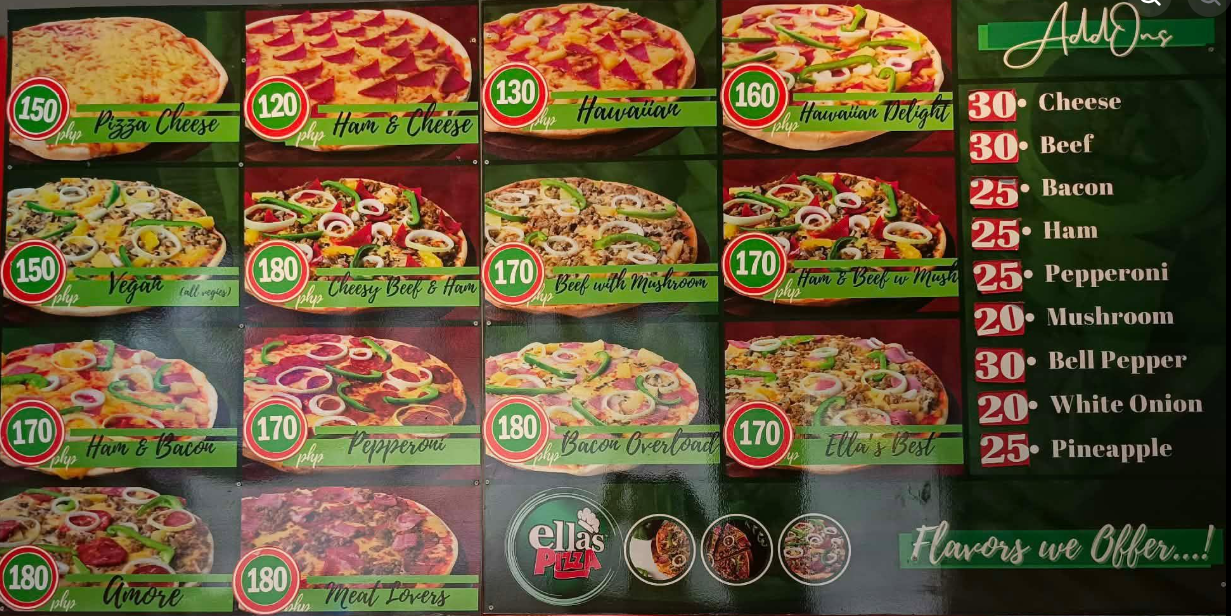
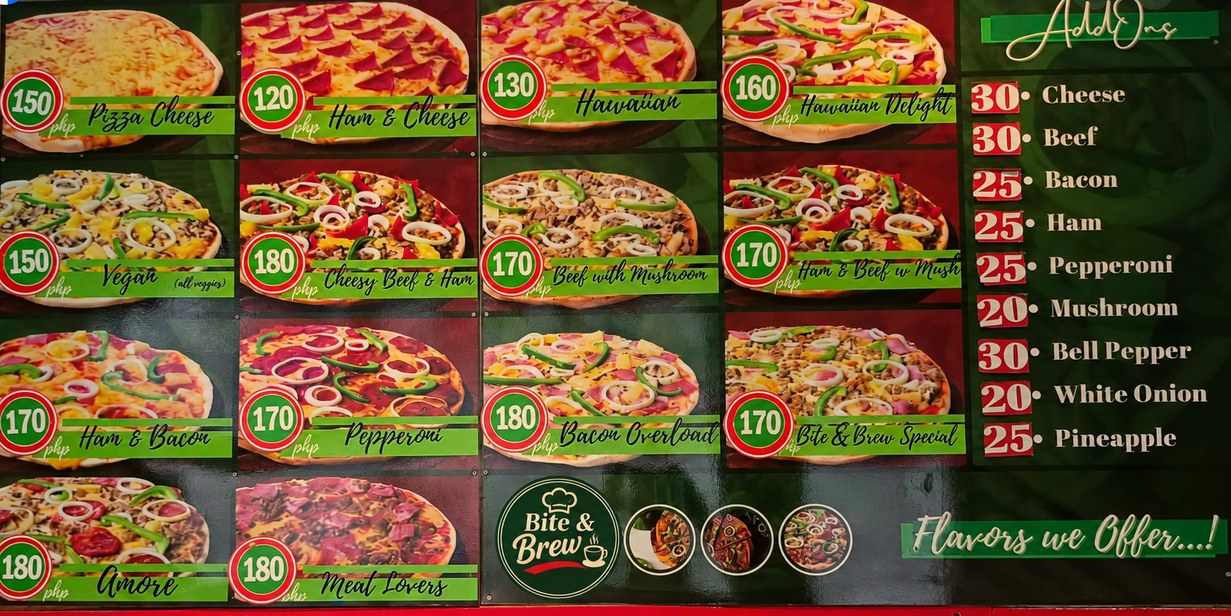
Replace former branding with Bite and Brew throughout the system

diff --git a/node-app/public/sw.js b/node-app/public/sw.js
@@ -1,9 +1,9 @@
-import { BRAND } from './shared/brand.js';
+import { BRAND, brandText } from './shared/brand.js';
 import { activeUser, syncDrafts } from './js/offline-store.js';
-const VERSION = 'ellas-shell-74fd7b43eb45b10f';
+const VERSION = 'bite-brew-shell-86f66da6c3e6fe45';
 const ASSETS = ['/shared/fontawesome-icons.js', '/shared/fontawesome.LICENSE.txt', '/assets/react-runtime.js', '/customer.html', '/js/customer.js', '/js/support-chat.js', '/images/hero-pizza-burger.png', '/images/hero-food.png', '/js/storefront.js', '/staff.html', '/css/landing.css', '/js/landing.js', '/images/burger.webp', '/images/milk-tea.webp', '/images/fries.webp', '/', '/index.html', '/offline.html', '/manifest.webmanifest', '/css/app.css', '/css/print.css', '/js/app.js', '/js/api.js', '/js/ui.js', '/js/offline-store.js', '/js/pwa.js', '/js/realtime.js', '/js/pages/dashboard.js', '/js/pages/pos.js', '/js/pages/orders.js', '/js/pages/management.js', '/js/pages/payments.js', '/js/pages/reports.js', '/js/pages/chat.js', '/js/pages/settings.js', '/js/pages/notifications.js', '/js/document.js', '/shared/calculation.js', '/shared/brand.js', '/icons/brand-logo.png', '/icons/icon-192.png', '/icons/icon-512.png'];
 self.addEventListener('install', event => event.waitUntil(caches.open(VERSION).then(cache => cache.addAll(ASSETS.map(url => new Request(url, { cache: 'reload' }))))));
-self.addEventListener('activate', event => event.waitUntil((async () => { for (const name of await caches.keys()) if (name.startsWith('ellas-shell-') && name !== VERSION) await caches.delete(name); await self.clients.claim(); })()));
+self.addEventListener('activate', event => event.waitUntil((async () => { for (const name of await caches.keys()) if ((name.startsWith('bite-brew-shell-') || name.startsWith('ellas-shell-')) && name !== VERSION) await caches.delete(name); await self.clients.claim(); })()));
 self.addEventListener('message', event => { if (event.data?.type === 'APPLY_UPDATE') self.skipWaiting(); if (event.data?.type === 'SYNC_NOW') event.waitUntil(syncDrafts({ manual: true })); });
 self.addEventListener('sync', event => { if (event.tag === 'ellas-order-drafts') event.waitUntil(syncDrafts()); });
 self.addEventListener('fetch', event => {
@@ -26,7 +26,7 @@ self.addEventListener('fetch', event => {
 self.addEventListener('push', event => event.waitUntil((async () => {
   let value; try { value = event.data?.json(); } catch { value = {}; }
   const url = typeof value?.url === 'string' && value.url.startsWith('/?page=') ? value.url : '/?page=notifications';
-  await self.registration.showNotification(typeof value?.title === 'string' ? value.title.slice(0, 120) : BRAND.name, { body: 'There is a new update in your workspace.', icon: '/icons/icon-192.png', badge: '/icons/icon-192.png', tag: value?.tag || 'ellas-update', data: { url } });
+  await self.registration.showNotification(typeof value?.title === 'string' ? brandText(value.title).slice(0, 120) : BRAND.name, { body: 'There is a new update in your workspace.', icon: '/icons/icon-192.png', badge: '/icons/icon-192.png', tag: value?.tag || 'bite-brew-update', data: { url } });
 })()));
 self.addEventListener('notificationclick', event => {
   event.notification.close();

diff --git a/node-app/server/services/orders.js b/node-app/server/services/orders.js
@@ -6,6 +6,7 @@ import { fail } from '../lib/errors.js';
 import { authorize, authorizeOrderStatus } from '../lib/permissions.js';
 import { localDate, pagination, pageResult } from '../lib/time.js';
 import { settings } from './settings.js';
+import { brandText, brandBusiness } from '../../public/shared/brand.js';
 import { changed, notify } from './notifications.js';
 import { calculate, quoteMaterial, cents } from '../../public/shared/calculation.js';
 
@@ -35,7 +36,7 @@ export async function priceOrder(tx, actor, data) {
     if (new Set(line.addons).size !== line.addons.length) fail(422, 'ADDONS', 'Each add-on may be selected only once per item.');
     const addons = line.addons.map(id => variant.addons.find(link => link.addonId === id)?.addon);
     if (addons.some(addon => !addon?.active)) { conflicts.push({ variantId: line.variantId, reason: 'An add-on is unavailable or no longer applies to this variant' }); continue; }
-    items.push({ variantId: variant.id, name: variant.product.name, variantName: variant.name, basePrice: String(variant.price), quantity: line.quantity, addons: addons.map(a => ({ id: a.id, name: a.name, price: String(a.price) })), instructions: line.instructions });
+    items.push({ variantId: variant.id, name: brandText(variant.product.name), variantName: variant.name, basePrice: String(variant.price), quantity: line.quantity, addons: addons.map(a => ({ id: a.id, name: a.name, price: String(a.price) })), instructions: line.instructions });
   }
   if (conflicts.length) fail(409, 'MENU_CONFLICT', 'Some selections are no longer available. Review the draft before submitting.', { conflicts });
   let quote;
@@ -48,6 +49,8 @@ const orderIncludes = { items: { where: { removedAt: null } }, history: { includ
 export async function orderView(tx, id, actor) {
   const order = await tx.order.findUnique({ where: { id }, include: orderIncludes });
   if (!order) fail(404, 'NOT_FOUND', 'Order not found.');
+  order.businessSnapshot = brandBusiness(order.businessSnapshot);
+  order.items = order.items.map(item => ({ ...item, name: brandText(item.name) }));
   if (actor.role === 'KITCHEN') {
     if (!order.confirmedAt) fail(403, 'FORBIDDEN', 'This order is not in the kitchen workflow.');
     return { id: order.id, number: order.number, businessName: order.businessSnapshot.name, type: order.type, status: order.status, version: order.version, tableNumber: order.tableNumber, pickupAt: order.pickupAt, instructions: order.instructions, confirmedAt: order.confirmedAt, preparingAt: order.preparingAt, createdAt: order.createdAt, items: order.items.map(item => ({ id: item.id, name: item.name, variantName: item.variantName, quantity: item.quantity, addons: item.addons.map(a => ({ name: a.name })), instructions: item.instructions })), history: order.history.map(history => ({ from: history.from, to: history.to, reason: history.reason, createdAt: history.createdAt, actor: history.actor })) };

diff --git a/node-app/tests/branding.test.js b/node-app/tests/branding.test.js
@@ -1,0 +1,47 @@
+import test from 'node:test';
+import assert from 'node:assert/strict';
+import { BRAND, brandText, brandBusiness } from '../public/shared/brand.js';
+import { settings } from '../server/services/settings.js';
+import { orderView } from '../server/services/orders.js';
+
+const formerName = 'Ella\u2019s Pizza';
+const formerProduct = 'Ella\u2019s Best';
+
+test('saved business branding is updated without changing contact or financial settings', async () => {
+  const original = { name: formerName, footer: `Thank you for choosing ${formerName}!`, logo: '/uploads/old-logo.png', orderPrefix: 'EP', contact: 'fixture contact', taxBps: 1200 };
+  const business = await settings({ setting: { findUnique: async () => ({ data: original }) } });
+  assert.equal(business.name, BRAND.name);
+  assert.equal(business.footer, 'Thank you for choosing Bite & Brew!');
+  assert.equal(business.orderPrefix, 'BB');
+  assert.equal(business.logo, null);
+  assert.equal(business.contact, original.contact);
+  assert.equal(business.taxBps, original.taxBps);
+  assert.equal(original.name, formerName);
+  assert.deepEqual(brandBusiness(business), business);
+});
+
+test('historical receipts use current branding without rewriting stored snapshots or totals', async () => {
+  const stored = { id: 'order', number: 'EP-HISTORICAL', businessSnapshot: { name: formerName, footer: formerName }, items: [{ name: formerProduct, quantity: 1, addons: [] }], total: '170.00', paid: '100.00', history: [], confirmedAt: new Date() };
+  const tx = { order: { findUnique: async () => structuredClone(stored) } };
+  const owner = await orderView(tx, 'order', { role: 'OWNER' });
+  assert.equal(owner.businessSnapshot.name, BRAND.name);
+  assert.equal(owner.items[0].name, 'Bite & Brew Special');
+  assert.equal(owner.number, stored.number);
+  assert.equal(owner.total, '170.00');
+  assert.equal(owner.balance, '70.00');
+  const kitchen = await orderView(tx, 'order', { role: 'KITCHEN' });
+  assert.equal(kitchen.businessName, BRAND.name);
+  assert.equal(kitchen.items[0].name, 'Bite & Brew Special');
+  assert.equal(kitchen.total, undefined);
+  assert.equal(kitchen.businessSnapshot, undefined);
+  assert.equal(stored.businessSnapshot.name, formerName);
+  assert.equal(stored.items[0].name, formerProduct);
+});
+
+test('branding handles apostrophe variants while preserving unrelated content', () => {
+  for (const name of [formerName, "Ella's Pizza", 'ELLAS PIZZA']) assert.equal(brandText(name), BRAND.name);
+  assert.equal(brandText(formerProduct), 'Bite & Brew Special');
+  assert.equal(brandText('Mozzarella Pizza'), 'Mozzarella Pizza');
+  assert.equal(brandText(null), null);
+  assert.equal(brandBusiness({ name: BRAND.name, logo: '/uploads/new-logo.png' }).logo, '/uploads/new-logo.png');
+});

diff --git a/node-app/server/controllers/documents.js b/node-app/server/controllers/documents.js
@@ -4,7 +4,7 @@ import { audit } from '../lib/atomic.js';
 import { fail } from '../lib/errors.js';
 import { orderView } from '../services/orders.js';
 import { report } from '../services/reports.js';
-import { BRAND } from '../../public/shared/brand.js';
+import { BRAND, brandText } from '../../public/shared/brand.js';
 
 const escape = value => String(value ?? '').replace(/[&<>"']/g, char => ({ '&': '&amp;', '<': '&lt;', '>': '&gt;', '"': '&quot;', "'": '&#39;' })[char]);
 const money = value => 'PHP ' + Number(value || 0).toLocaleString('en-PH', { minimumFractionDigits: 2, maximumFractionDigits: 2 });
@@ -39,7 +39,7 @@ export async function receiptPdf(actor, id, res) {
 }
 const financial = new Set(['amount', 'subtotal', 'discount', 'charges', 'total', 'paid', 'balance', 'grossSales', 'discounts', 'recognizedSales', 'salesRefunds', 'netSales', 'collections', 'sales', 'otherRefunds', 'refunds', 'netCollections', 'outstanding', 'refundObligations']);
 function csvCell(value, key) {
-  let text = value instanceof Date ? date(value) : String(value ?? '');
+  let text = value instanceof Date ? date(value) : String(brandText(value) ?? '');
   if (!(financial.has(key) && /^-?\d+(\.\d+)?$/.test(text)) && /^[=+@\-]/.test(text.trimStart())) text = "'" + text;
   return '"' + text.replaceAll('"', '""') + '"';
 }
@@ -61,7 +61,7 @@ export async function exportReport(actor, type, format, query, res) {
   document.fontSize(20).text(result.business.name).fontSize(13).text(type.toUpperCase() + ' REPORT').fontSize(10).text(`${result.period.from} — ${result.period.to} · Asia/Manila`).text('Generated ' + date(result.generatedAt)).moveDown();
   for (const [key, value] of Object.entries(result.summary)) document.text(key + ': ' + (key === 'completedOrders' ? value : money(value)));
   document.moveDown();
-  for (const row of result.data) { for (const [key, value] of Object.entries(row)) document.fontSize(9).text(key + ': ' + (value instanceof Date ? date(value) : String(value ?? '—'))); document.moveDown(); }
+  for (const row of result.data) { for (const [key, value] of Object.entries(row)) document.fontSize(9).text(key + ': ' + (value instanceof Date ? date(value) : String(brandText(value) ?? '—'))); document.moveDown(); }
   document.addPage().fontSize(13).text('Definitions').fontSize(10); for (const [key, value] of Object.entries(result.definitions)) document.moveDown(.5).text(key + ': ' + value);
   document.end();
 }

diff --git a/node-app/server/services/branding.js b/node-app/server/services/branding.js
@@ -1,0 +1,44 @@
+import fs from 'node:fs/promises';
+import path from 'node:path';
+import { createHash } from 'node:crypto';
+import { db } from '../db.js';
+import { config, root } from '../config.js';
+import { brandBusiness, brandText } from '../../public/shared/brand.js';
+
+// Idempotent data migration for installations created before the rebrand.
+// Historical order snapshots are normalized for display in orderView instead.
+export async function applyBranding() {
+  const bytes = await fs.readFile(path.join(root, 'data/product-photos.png'));
+  const filename = 'supplied-products-' + createHash('sha256').update(bytes).digest('hex').slice(0, 16) + '.png';
+  await fs.mkdir(config.uploads, { recursive: true });
+  try { await fs.writeFile(path.join(config.uploads, filename), bytes, { flag: 'wx' }); }
+  catch (error) { if (error.code !== 'EEXIST') throw error; }
+  return db.$transaction(async tx => {
+    const stored = await tx.setting.findUnique({ where: { id: 1 } });
+    if (stored) {
+      const normalized = JSON.parse(JSON.stringify(brandBusiness(stored.data)));
+      if (JSON.stringify(normalized) !== JSON.stringify(stored.data)) {
+        await tx.setting.update({ where: { id: 1 }, data: { data: normalized } });
+      }
+    }
+    const products = await tx.menuItem.findMany({ where: { OR: [
+      { name: { contains: 'Ella' } }, { code: 'EP-ELLAS-BEST' },
+      { image: { startsWith: '/uploads/supplied-products-' } },
+    ] } });
+    let updated = 0;
+    for (const product of products) {
+      const data = {};
+      const name = brandText(product.name);
+      if (name !== product.name) data.name = name;
+      if (product.code === 'EP-ELLAS-BEST') data.code = 'BB-SPECIAL';
+      if (product.imageFrame && product.image?.startsWith('/uploads/supplied-products-') && product.image !== '/uploads/' + filename) {
+        data.image = '/uploads/' + filename;
+      }
+      if (Object.keys(data).length) {
+        await tx.menuItem.update({ where: { id: product.id }, data });
+        updated++;
+      }
+    }
+    return { productsUpdated: updated };
+  });
+}

diff --git a/node-app/scripts/browser-check.js b/node-app/scripts/browser-check.js
@@ -10,7 +10,7 @@ import { BRAND } from '../public/shared/brand.js';
 
 const root = path.resolve('.'), artifacts = path.join(root, 'docs/verification-artifacts'); fs.mkdirSync(artifacts, { recursive: true });
 const user = { id: randomUUID(), name: 'DEMONSTRATION UI fixture', email: 'fixture@example.test', role: 'OWNER', permissions: ['dashboard', 'pos', 'orders', 'kitchen', 'menu', 'customers', 'payments', 'reports', 'chat', 'notifications', 'archives', 'staff', 'audit', 'settings'] };
-const business = { name: 'Ella’s Pizza · UI TEST FIXTURE', address: 'Poblacion 1, Victoria, Oriental Mindoro', contact: '0985 986 4399', hours: '7:00 AM–8:00 PM', facebook: 'https://www.facebook.com/share/1F1nJVSJQG/', logo: null, preparationMinutes: 20, currency: 'PHP', timezone: 'Asia/Manila', taxBps: 0, serviceBps: 0, allowCashierDiscounts: false, paymentMethods: ['CASH', 'GCASH'], footer: 'UI fixture only', orderPrefix: 'DEMO' };
+const business = { name: 'Bite & Brew · UI TEST FIXTURE', address: 'Poblacion 1, Victoria, Oriental Mindoro', contact: '0985 986 4399', hours: '7:00 AM–8:00 PM', facebook: 'https://www.facebook.com/share/1F1nJVSJQG/', logo: null, preparationMinutes: 20, currency: 'PHP', timezone: 'Asia/Manila', taxBps: 0, serviceBps: 0, allowCashierDiscounts: false, paymentMethods: ['CASH', 'GCASH'], footer: 'UI fixture only', orderPrefix: 'DEMO' };
 const menu = JSON.parse(fs.readFileSync('data/menu.json')), photos = JSON.parse(fs.readFileSync('data/product-photos.json')), category = { id: randomUUID(), name: 'Pizzas', active: true };
 const addons = menu.addons.map(item => ({ ...item, id: randomUUID(), active: true }));
 const products = menu.products.map((item, index) => ({ ...item, id: randomUUID(), categoryId: category.id, category, active: true, demo: true, description: 'DEMONSTRATION UI fixture', image: '/uploads/fixture-products.png', imageFrame: { ...photos.frames[item.code], source_width: photos.source_width, source_height: photos.source_height }, variants: [{ id: randomUUID(), name: 'Pizza', price: item.price, active: true, addons }] }));

diff --git a/node-app/server/services/menu.js b/node-app/server/services/menu.js
@@ -9,6 +9,7 @@ import { fail } from '../lib/errors.js';
 import { authorize } from '../lib/permissions.js';
 import { pagination, pageResult } from '../lib/time.js';
 import { cents } from '../../public/shared/calculation.js';
+import { brandText } from '../../public/shared/brand.js';
 
 export const uuid = z.uuid();
 export const amount = z.string().regex(/^\d{1,8}(?:\.\d{1,2})?$/, 'Enter a non-negative amount with at most two decimal places.');
@@ -23,7 +24,7 @@ export async function catalog(actor, query = {}, management = false) {
   if (query.archived === '1' && !owner) fail(403, 'FORBIDDEN', 'Only the owner can view archived records.');
   const where = { archivedAt: owner && query.archived === '1' ? { not: null } : null, ...(!management ? { active: true, category: { archivedAt: null, active: true } } : {}), ...(query.categoryId ? { categoryId: uuid.parse(query.categoryId) } : {}), ...(query.q ? { OR: [{ name: { contains: String(query.q).slice(0, 120) } }, { code: { contains: String(query.q).slice(0, 120) } }] } : {}) };
   const [rows, total] = await db.$transaction([db.menuItem.findMany({ where, include: { category: true, variants: { include: { addons: { include: { addon: true } } }, orderBy: { createdAt: 'asc' } } }, orderBy: [{ sortOrder: 'asc' }, { name: 'asc' }], skip: p.skip, take: p.take }), db.menuItem.count({ where })]);
-  return pageResult(rows.map(row => ({ ...row, variants: row.variants.map(variant => ({ ...variant, addons: variant.addons.map(link => link.addon) })) })), total, p);
+  return pageResult(rows.map(row => ({ ...row, name: brandText(row.name), description: brandText(row.description), variants: row.variants.map(variant => ({ ...variant, addons: variant.addons.map(link => link.addon) })) })), total, p);
 }
 export async function saveProduct(actor, key, id, input) {
   authorize(actor, 'menu');

diff --git a/node-app/server/routes/public.js b/node-app/server/routes/public.js
@@ -2,6 +2,7 @@ import { Router } from 'express';
 import path from 'node:path';
 import { z } from 'zod';
 import { db } from '../db.js';
+import { brandText } from '../../public/shared/brand.js';
 import { config } from '../config.js';
 import { pagination, pageResult } from '../lib/time.js';
 import { fail } from '../lib/errors.js';
@@ -18,7 +19,7 @@ export function publicRoutes() {
         db.menuItem.count({ where }),
         db.category.findMany({ where: { active: true, archivedAt: null, products: { some: { active: true, archivedAt: null } } }, select: { id: true, name: true }, orderBy: { name: 'asc' } }),
       ]);
-      res.json({ ...pageResult(products.map(product => ({ ...product, variants: product.variants.map(variant => ({ ...variant, addons: variant.addons.map(link => link.addon) })), image: product.image ? `/api/public/products/${product.id}/image` : null })), total, p), categories });
+      res.json({ ...pageResult(products.map(product => ({ ...product, name: brandText(product.name), description: brandText(product.description), variants: product.variants.map(variant => ({ ...variant, addons: variant.addons.map(link => link.addon) })), image: product.image ? `/api/public/products/${product.id}/image` : null })), total, p), categories });
     } catch (error) { next(error); }
   });
   // Only expose the image of a currently public product, never the upload directory.

diff --git a/node-app/scripts/backup.js b/node-app/scripts/backup.js
@@ -25,7 +25,7 @@ try {
     for (const item of await fs.readdir(config.uploads, { withFileTypes: true })) { if (!item.isFile() || !/^[a-zA-Z0-9._-]+$/.test(item.name)) continue; const bytes = await fs.readFile(path.join(config.uploads, item.name)); files.push({ name: item.name, data: bytes.toString('base64'), hash: hash(bytes) }); }
     const value = { version: 2, schemaHash: hash(schema), createdAt: new Date().toISOString(), timezone: 'UTC', tables, files };
     if (Buffer.byteLength(JSON.stringify(value)) > 200 * 1024 * 1024) throw new Error('Use mysqldump and a filesystem snapshot for backups above 200 MB.');
-    const destination = path.resolve(root, argument || 'var/backups/ellas-' + new Date().toISOString().replaceAll(':', '-') + '.epbackup');
+    const destination = path.resolve(root, argument || 'var/backups/bite-brew-' + new Date().toISOString().replaceAll(':', '-') + '.epbackup');
     await fs.mkdir(path.dirname(destination), { recursive: true }); await fs.writeFile(destination, encodeBackup(value, passphrase), { mode: 0o600, flag: 'wx' });
     console.log('Encrypted backup saved:', destination); console.log('Includes business tables and uploaded media; active sessions and environment secrets are excluded.');
   } else {

diff --git a/node-app/server/services/settings.js b/node-app/server/services/settings.js
@@ -2,7 +2,7 @@ import { z } from 'zod';
 import { db } from '../db.js';
 import { atomic, audit } from '../lib/atomic.js';
 import { authorize } from '../lib/permissions.js';
-import { BRAND } from '../../public/shared/brand.js';
+import { BRAND, brandBusiness } from '../../public/shared/brand.js';
 export const defaults = {
   name: BRAND.name, systemName: BRAND.systemName,
   address: 'Poblacion 1, Victoria, Oriental Mindoro', contact: '0985 986 4399', hours: '7:00 AM–8:00 PM',
@@ -11,7 +11,7 @@ export const defaults = {
   paymentMethods: ['CASH', 'GCASH'], allowCashierDiscounts: false, taxBps: 0, serviceBps: 0,
   currency: 'PHP', timezone: 'Asia/Manila',
 };
-export async function settings(tx = db) { return { ...defaults, ...(await tx.setting.findUnique({ where: { id: 1 } }))?.data }; }
+export async function settings(tx = db) { return brandBusiness({ ...defaults, ...(await tx.setting.findUnique({ where: { id: 1 } }))?.data }); }
 const schema = z.object({
   name: z.string().trim().min(1).max(120), address: z.string().trim().min(1).max(255), contact: z.string().trim().min(1).max(40),
   hours: z.string().trim().min(1).max(120), facebook: z.url().startsWith('https://').max(500),

diff --git a/node-app/public/js/ui.js b/node-app/public/js/ui.js
@@ -1,7 +1,8 @@
+import { brandText } from '../shared/brand.js';
 import { fontAwesomeIcon as icon } from '../shared/fontawesome-icons.js';
 export { icon };
 import { renderMarkup } from '/assets/react-runtime.js';
-export const e = value => String(value ?? '').replace(/[&<>"']/g, char => ({ '&': '&amp;', '<': '&lt;', '>': '&gt;', '"': '&quot;', "'": '&#39;' })[char]);
+export const e = value => String(brandText(value) ?? '').replace(/[&<>"']/g, char => ({ '&': '&amp;', '<': '&lt;', '>': '&gt;', '"': '&quot;', "'": '&#39;' })[char]);
 export const money = value => new Intl.NumberFormat('en-PH', { style: 'currency', currency: 'PHP' }).format(Number(value || 0));
 export const dateTime = value => value ? new Intl.DateTimeFormat('en-PH', { timeZone: 'Asia/Manila', dateStyle: 'medium', timeStyle: 'short' }).format(new Date(value)) : '—';
 export const today = () => new Intl.DateTimeFormat('en-CA', { timeZone: 'Asia/Manila', year: 'numeric', month: '2-digit', day: '2-digit' }).format(new Date());

diff --git a/node-app/server/app.js b/node-app/server/app.js
@@ -12,9 +12,11 @@ import { attachRealtime } from './realtime.js';
 import { documentHtml, receiptPdf } from './controllers/documents.js';
 import { overdueNotifications, deliverPush } from './services/notifications.js';
 import { z } from 'zod';
+import { applyBranding } from './services/branding.js';
 
 export async function createApplication({ jobs = true } = {}) {
   validateEnvironment(); await db.$connect();
+  await applyBranding();
   const app = express();
   app.disable('x-powered-by'); app.set('trust proxy', config.trustProxy);
   app.use(helmet({ contentSecurityPolicy: { directives: { defaultSrc: ["'self'"], scriptSrc: ["'self'"], styleSrc: ["'self'", "'unsafe-inline'"], imgSrc: ["'self'", 'data:', 'blob:'], connectSrc: ["'self'", config.origin.replace(/^http/, 'ws')], fontSrc: ["'self'"], frameSrc: ["'self'"], objectSrc: ["'none'"], baseUri: ["'self'"], formAction: ["'self'"], upgradeInsecureRequests: config.production ? [] : null } }, crossOriginEmbedderPolicy: false }));
